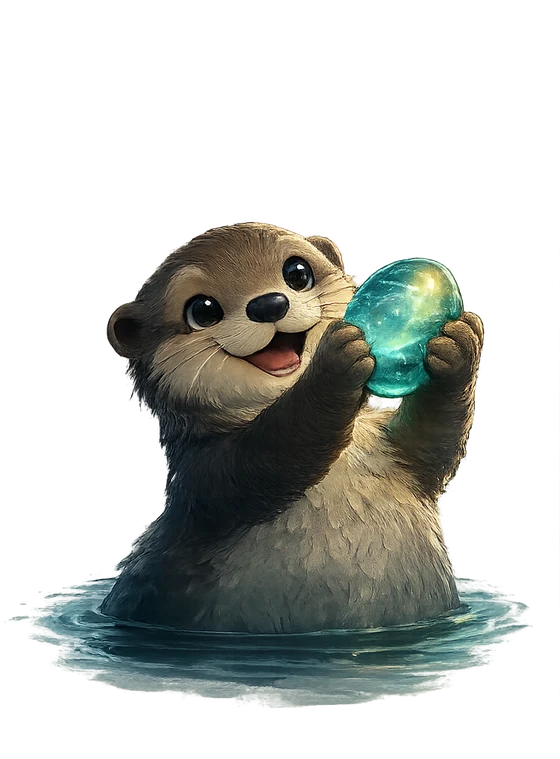
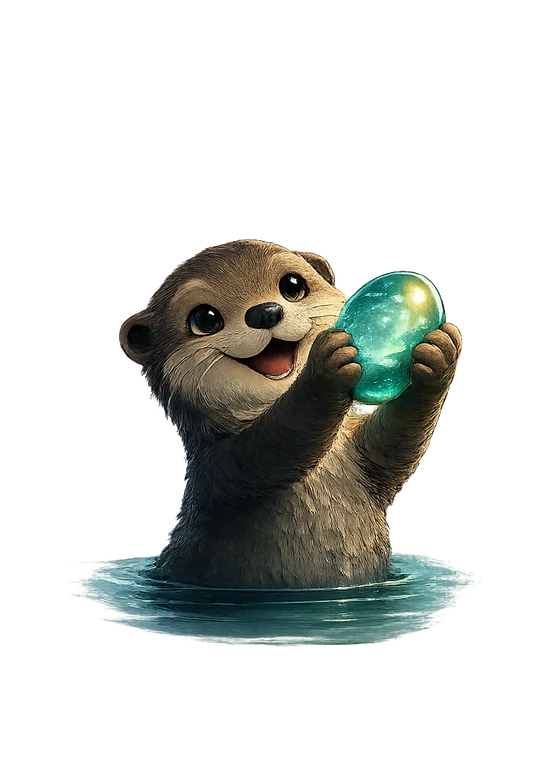
site: deploy

Changed region(s): [[0.0304, 0.2727, 0.9411, 0.9394]]

diff --git a/index.html b/index.html
@@ -45,7 +45,7 @@
 <link rel="preload" as="font" type="font/woff2" href="fonts/space-grotesk-600.woff2" crossorigin>
 <link rel="preload" as="font" type="font/woff2" href="fonts/inter-400.woff2" crossorigin>
 <link rel="preload" as="font" type="font/woff2" href="fonts/jetbrains-mono-400.woff2" crossorigin>
-<link rel="stylesheet" href="fonts.css?v=55e4868">
+<link rel="stylesheet" href="fonts.css?v=9509036">
 <style>
   :root{
     --deepwater:#0E2A33; --lake:#137A8B; --current:#2BB3A3; --mist:#EAF4F4;
@@ -751,7 +751,7 @@
       </div>
       <img class="see-pebble" src="pebble-peek.png" alt="" aria-hidden="true">
     </div>
-    <img class="shot" src="graph.jpg" width="1360" height="834" data-embed="graph-embed.html?v=55e4868"
+    <img class="shot" src="graph.jpg" width="1360" height="834" data-embed="graph-embed.html?v=9509036"
       alt="The contextlake graph visualizer: a repository's symbols laid out as a node graph with per-type glyphs, a kind legend, a search field, and a minimap in the corner.">
     <p class="shot-cap">The real visualizer, running right here on contextlake's own code. Drag, zoom, and search. Vendored and offline, no network. Export to Mermaid, DOT, or JSON.</p>
   </div>

diff --git a/benchmarks.html b/benchmarks.html
@@ -23,8 +23,8 @@
 <link rel="preload" as="font" type="font/woff2" href="fonts/space-grotesk-600.woff2" crossorigin>
 <link rel="preload" as="font" type="font/woff2" href="fonts/inter-400.woff2" crossorigin>
 <link rel="preload" as="font" type="font/woff2" href="fonts/jetbrains-mono-400.woff2" crossorigin>
-<link rel="stylesheet" href="fonts.css?v=55e4868">
-<link rel="stylesheet" href="docs.css?v=55e4868">
+<link rel="stylesheet" href="fonts.css?v=9509036">
+<link rel="stylesheet" href="docs.css?v=9509036">
 </head>
 <body>
 <a class="skip" href="#doc">Skip to content</a>

diff --git a/bootstrap.html b/bootstrap.html
@@ -23,8 +23,8 @@
 <link rel="preload" as="font" type="font/woff2" href="fonts/space-grotesk-600.woff2" crossorigin>
 <link rel="preload" as="font" type="font/woff2" href="fonts/inter-400.woff2" crossorigin>
 <link rel="preload" as="font" type="font/woff2" href="fonts/jetbrains-mono-400.woff2" crossorigin>
-<link rel="stylesheet" href="fonts.css?v=55e4868">
-<link rel="stylesheet" href="docs.css?v=55e4868">
+<link rel="stylesheet" href="fonts.css?v=9509036">
+<link rel="stylesheet" href="docs.css?v=9509036">
 </head>
 <body>
 <a class="skip" href="#doc">Skip to content</a>

diff --git a/brand.html b/brand.html
@@ -23,8 +23,8 @@
 <link rel="preload" as="font" type="font/woff2" href="fonts/space-grotesk-600.woff2" crossorigin>
 <link rel="preload" as="font" type="font/woff2" href="fonts/inter-400.woff2" crossorigin>
 <link rel="preload" as="font" type="font/woff2" href="fonts/jetbrains-mono-400.woff2" crossorigin>
-<link rel="stylesheet" href="fonts.css?v=55e4868">
-<link rel="stylesheet" href="docs.css?v=55e4868">
+<link rel="stylesheet" href="fonts.css?v=9509036">
+<link rel="stylesheet" href="docs.css?v=9509036">
 </head>
 <body>
 <a class="skip" href="#doc">Skip to content</a>

diff --git a/changelog.html b/changelog.html
@@ -23,8 +23,8 @@
 <link rel="preload" as="font" type="font/woff2" href="fonts/space-grotesk-600.woff2" crossorigin>
 <link rel="preload" as="font" type="font/woff2" href="fonts/inter-400.woff2" crossorigin>
 <link rel="preload" as="font" type="font/woff2" href="fonts/jetbrains-mono-400.woff2" crossorigin>
-<link rel="stylesheet" href="fonts.css?v=55e4868">
-<link rel="stylesheet" href="docs.css?v=55e4868">
+<link rel="stylesheet" href="fonts.css?v=9509036">
+<link rel="stylesheet" href="docs.css?v=9509036">
 </head>
 <body>
 <a class="skip" href="#doc">Skip to content</a>

diff --git a/cli-reference.html b/cli-reference.html
@@ -23,8 +23,8 @@
 <link rel="preload" as="font" type="font/woff2" href="fonts/space-grotesk-600.woff2" crossorigin>
 <link rel="preload" as="font" type="font/woff2" href="fonts/inter-400.woff2" crossorigin>
 <link rel="preload" as="font" type="font/woff2" href="fonts/jetbrains-mono-400.woff2" crossorigin>
-<link rel="stylesheet" href="fonts.css?v=55e4868">
-<link rel="stylesheet" href="docs.css?v=55e4868">
+<link rel="stylesheet" href="fonts.css?v=9509036">
+<link rel="stylesheet" href="docs.css?v=9509036">
 </head>
 <body>
 <a class="skip" href="#doc">Skip to content</a>

diff --git a/configuration.html b/configuration.html
@@ -23,8 +23,8 @@
 <link rel="preload" as="font" type="font/woff2" href="fonts/space-grotesk-600.woff2" crossorigin>
 <link rel="preload" as="font" type="font/woff2" href="fonts/inter-400.woff2" crossorigin>
 <link rel="preload" as="font" type="font/woff2" href="fonts/jetbrains-mono-400.woff2" crossorigin>
-<link rel="stylesheet" href="fonts.css?v=55e4868">
-<link rel="stylesheet" href="docs.css?v=55e4868">
+<link rel="stylesheet" href="fonts.css?v=9509036">
+<link rel="stylesheet" href="docs.css?v=9509036">
 </head>
 <body>
 <a class="skip" href="#doc">Skip to content</a>

diff --git a/connect-enrich.html b/connect-enrich.html
@@ -23,8 +23,8 @@
 <link rel="preload" as="font" type="font/woff2" href="fonts/space-grotesk-600.woff2" crossorigin>
 <link rel="preload" as="font" type="font/woff2" href="fonts/inter-400.woff2" crossorigin>
 <link rel="preload" as="font" type="font/woff2" href="fonts/jetbrains-mono-400.woff2" crossorigin>
-<link rel="stylesheet" href="fonts.css?v=55e4868">
-<link rel="stylesheet" href="docs.css?v=55e4868">
+<link rel="stylesheet" href="fonts.css?v=9509036">
+<link rel="stylesheet" href="docs.css?v=9509036">
 </head>
 <body>
 <a class="skip" href="#doc">Skip to content</a>

diff --git a/console-output.html b/console-output.html
@@ -23,8 +23,8 @@
 <link rel="preload" as="font" type="font/woff2" href="fonts/space-grotesk-600.woff2" crossorigin>
 <link rel="preload" as="font" type="font/woff2" href="fonts/inter-400.woff2" crossorigin>
 <link rel="preload" as="font" type="font/woff2" href="fonts/jetbrains-mono-400.woff2" crossorigin>
-<link rel="stylesheet" href="fonts.css?v=55e4868">
-<link rel="stylesheet" href="docs.css?v=55e4868">
+<link rel="stylesheet" href="fonts.css?v=9509036">
+<link rel="stylesheet" href="docs.css?v=9509036">
 </head>
 <body>
 <a class="skip" href="#doc">Skip to content</a>

diff --git a/dashboard.html b/dashboard.html
@@ -23,8 +23,8 @@
 <link rel="preload" as="font" type="font/woff2" href="fonts/space-grotesk-600.woff2" crossorigin>
 <link rel="preload" as="font" type="font/woff2" href="fonts/inter-400.woff2" crossorigin>
 <link rel="preload" as="font" type="font/woff2" href="fonts/jetbrains-mono-400.woff2" crossorigin>
-<link rel="stylesheet" href="fonts.css?v=55e4868">
-<link rel="stylesheet" href="docs.css?v=55e4868">
+<link rel="stylesheet" href="fonts.css?v=9509036">
+<link rel="stylesheet" href="docs.css?v=9509036">
 </head>
 <body>
 <a class="skip" href="#doc">Skip to content</a>

diff --git a/docs.html b/docs.html
@@ -23,8 +23,8 @@
 <link rel="preload" as="font" type="font/woff2" href="fonts/space-grotesk-600.woff2" crossorigin>
 <link rel="preload" as="font" type="font/woff2" href="fonts/inter-400.woff2" crossorigin>
 <link rel="preload" as="font" type="font/woff2" href="fonts/jetbrains-mono-400.woff2" crossorigin>
-<link rel="stylesheet" href="fonts.css?v=55e4868">
-<link rel="stylesheet" href="docs.css?v=55e4868">
+<link rel="stylesheet" href="fonts.css?v=9509036">
+<link rel="stylesheet" href="docs.css?v=9509036">
 </head>
 <body>
 <a class="skip" href="#doc">Skip to content</a>

diff --git a/generate-wiki.html b/generate-wiki.html
@@ -23,8 +23,8 @@
 <link rel="preload" as="font" type="font/woff2" href="fonts/space-grotesk-600.woff2" crossorigin>
 <link rel="preload" as="font" type="font/woff2" href="fonts/inter-400.woff2" crossorigin>
 <link rel="preload" as="font" type="font/woff2" href="fonts/jetbrains-mono-400.woff2" crossorigin>
-<link rel="stylesheet" href="fonts.css?v=55e4868">
-<link rel="stylesheet" href="docs.css?v=55e4868">
+<link rel="stylesheet" href="fonts.css?v=9509036">
+<link rel="stylesheet" href="docs.css?v=9509036">
 </head>
 <body>
 <a class="skip" href="#doc">Skip to content</a>
